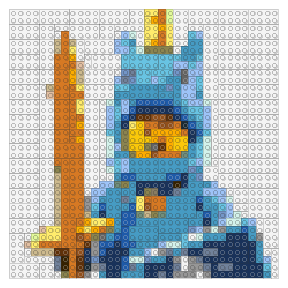
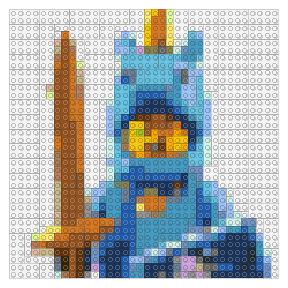
Temporary fix to address changes in farver 2.0

diff --git a/NEWS.md b/NEWS.md
@@ -1,4 +1,12 @@
-# brickr 0.2.0
+# Current dev version
+
+##brickr 0.2.0.9003
+
+* Issues after updating to [farver 2.0](https://github.com/thomasp85/farver). Temporarily set color method back to 'brickr_classic'.
+
+----
+
+# brickr 0.2.0 - a.k.a. [Castle]()
 
 * Lots of bug fixes. More to come.
 
@@ -13,7 +21,7 @@
 
 ----
 
-# brickr 0.1.1
+# brickr 0.1.1 - a.k.a. [brickr House](https://twitter.com/ryantimpe/status/1106572408918605824?s=20)
 
 * **Breaking:** Pretty much *EVERY* function. Seriously, check out the README and start fresh.
 

diff --git a/README.md b/README.md
@@ -286,8 +286,7 @@ ggplot(df, aes(trt, outcome)) +
 
 Both `scale_fill_brick()` and `theme_brick()` take an input
 ‘brick\_theme’, which ensures all colors match official LEGO brick
-colors. See `build_themes()` for a sample of all available brick
-theme.
+colors. See `build_themes()` for a sample of all available brick theme.
 
 ``` r
 df <- data.frame(trt = letters[1:6], outcome = rnorm(6, mean = 5, sd = 2))
